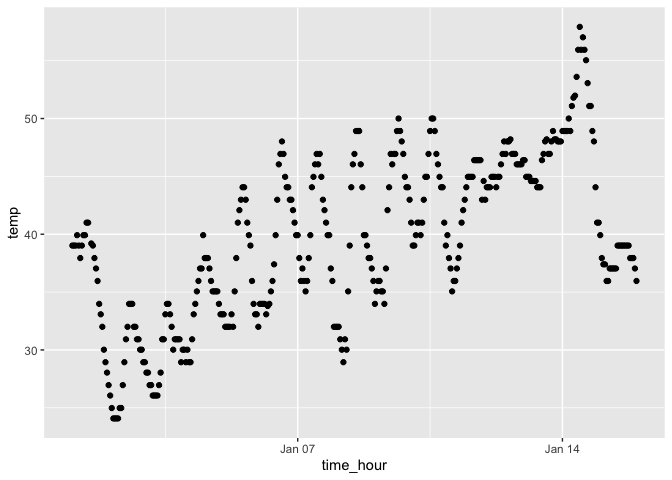
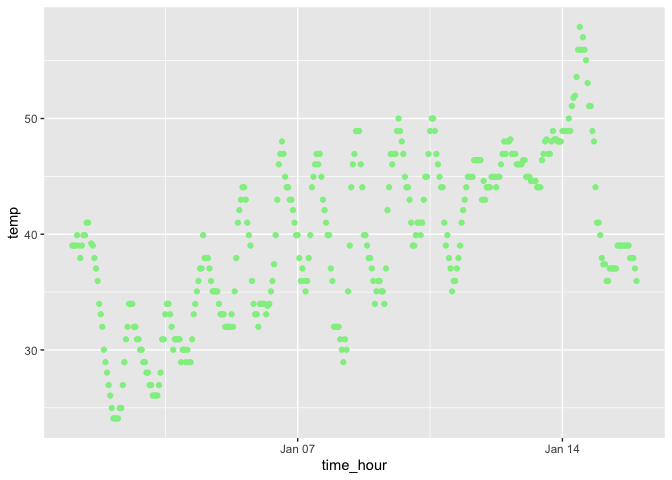
changed color to represent humid varaible and edited description of question1_plot so be more descriptive

diff --git a/p8105_hw1_bac2214.md b/p8105_hw1_bac2214.md
@@ -49,9 +49,11 @@ should help). Describe patterns that are apparent in this plot.
 This code chunk will create the scatterplot.
 
 ``` r
-library(ggplot2)
-question1_plot = ggplot(early_january_weather, aes(x = time_hour, y = temp)) + geom_point(color = 25)
-print(question1_plot)
+question1_plot = ggplot(early_january_weather, aes(x = time_hour, y = temp, color = humid)) + geom_point()
+question1_plot
 ```
 
-![](p8105_hw1_bac2214_files/figure-gfm/unnamed-chunk-4-1.png)<!-- -->
+![](p8105_hw1_bac2214_files/figure-gfm/unnamed-chunk-5-1.png)<!-- -->
+
+The plot seems to zig zag up and down from left to right, but I notice a
+gradual increase in temperature as the month of Januray progresses.
